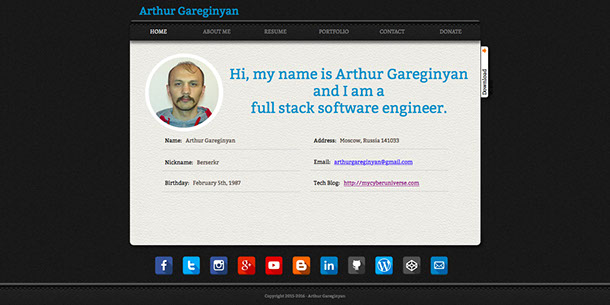
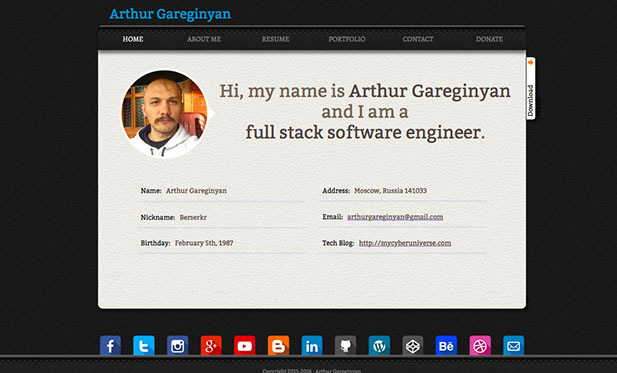
Updated

diff --git a/portfolio.html b/portfolio.html
@@ -3,7 +3,7 @@
  <head>
 
   <script type="text/javascript">
-   if(typeof Muse == "undefined") window.Muse = {}; window.Muse.assets = {"required":["jquery-1.8.3.min.js", "museutils.js", "jquery.musemenu.js", "jquery.watch.js", "jquery.musepolyfill.bgsize.js", "portfolio.css"], "outOfDate":[]};
+   if(typeof Muse == "undefined") window.Muse = {}; window.Muse.assets = {"required":["jquery-1.8.3.min.js", "museutils.js", "jquery.musemenu.js", "jquery.musepolyfill.bgsize.js", "jquery.watch.js", "portfolio.css"], "outOfDate":[]};
 </script>
   
   <meta http-equiv="Content-type" content="text/html;charset=UTF-8"/>
@@ -71,7 +71,7 @@ $(window).load(function(){
     <div class="clearfix colelem" id="u1070"><!-- column -->
      <div class="position_content" id="u1070_position_content">
       <a class="nonblock nontext clearfix colelem" id="u1074-4" href="index.html"><!-- content --><p>Arthur Gareginyan</p></a>
-      <div class="clearfix colelem" id="u1075"><!-- group -->
+      <div class="shadow rounded-corners clearfix colelem" id="u1075"><!-- group -->
        <nav class="MenuBar clearfix grpelem" id="menuu1082"><!-- horizontal box -->
         <div class="MenuItemContainer clearfix grpelem" id="u1111"><!-- vertical box -->
          <a class="nonblock nontext MenuItem MenuItemWithSubMenu clearfix colelem" id="u1114" href="index.html"><!-- horizontal box --><div class="MenuItemLabel NoWrap clearfix grpelem" id="u1115-4"><!-- content --><p>HOME</p></div></a>
@@ -131,7 +131,7 @@ $(window).load(function(){
        </div>
       </div>
      </div>
-     <div class="grpelem" id="u425"><!-- simple frame --></div>
+     <div class="shadow rounded-corners grpelem" id="u425"><!-- simple frame --></div>
      <a class="nonblock nontext clearfix grpelem" id="u426-4" href="assets/arthur_gareginyan.vcf" data-mu-ie-matrix="progid:DXImageTransform.Microsoft.Matrix(M11=0,M12=1,M21=-1,M22=0,SizingMethod='auto expand')" data-mu-ie-matrix-dx="47" data-mu-ie-matrix-dy="-47"><!-- content --><p>Download vCard</p></a>
      <div class="clip_frame grpelem" id="u1361" data-mu-ie-matrix="progid:DXImageTransform.Microsoft.Matrix(M11=0,M12=1,M21=-1,M22=0,SizingMethod='auto expand')" data-mu-ie-matrix-dx="1" data-mu-ie-matrix-dy="-1"><!-- image -->
       <img class="block" id="u1361_img" src="images/arrow_down.png" alt="" width="13" height="12"/>
@@ -205,7 +205,7 @@ $(window).load(function(){
     <div class="clearfix colelem" id="pu1125"><!-- group -->
      <div class="clearfix grpelem" id="u1125"><!-- column -->
       <div class="position_content" id="u1125_position_content">
-       <div class="colelem" id="u1126"><!-- simple frame --></div>
+       <div class="shadow rounded-corners colelem" id="u1126"><!-- simple frame --></div>
        <div class="colelem" id="u1842"><!-- custom html -->
         <ul class="social-icons">
 	<li>

diff --git a/about-me.html b/about-me.html
@@ -12,7 +12,7 @@
   <!-- CSS -->
   <link rel="stylesheet" type="text/css" href="css/site_global.css?4189136300"/>
   <link rel="stylesheet" type="text/css" href="css/master_main.css?3819016110"/>
-  <link rel="stylesheet" type="text/css" href="css/about-me.css?3779073615" id="pagesheet"/>
+  <link rel="stylesheet" type="text/css" href="css/about-me.css?4233700781" id="pagesheet"/>
   <!-- Other scripts -->
   <script type="text/javascript">
    document.documentElement.className += ' js';
@@ -108,7 +108,7 @@ $(window).load(function(){
      <div class="clearfix grpelem" id="u1290-7"><!-- content -->
       <p>&nbsp; My name is Arthur, but known to everyone as just Berserkr.</p>
       <p>&nbsp;</p>
-      <p>&nbsp;&nbsp;&nbsp; I am 28 years old, married. Originally from Dolinskaya in Central Ukraine and now I live in Moscow, Russia.</p>
+      <p>&nbsp;&nbsp;&nbsp; I am 28 years old, married. Originally from Dolinskaya in Central Ukraine, and now I live in Moscow, Russia.</p>
      </div>
      <div class="rounded-corners clearfix grpelem" id="u1896"><!-- group -->
       <div class="rounded-corners grpelem" id="u1292"><!-- simple frame --></div>
@@ -134,7 +134,7 @@ $(window).load(function(){
      <p id="u1351-5">I am a Designer, Tech writer, Software engineer, Blogger, Techie, and Explorer, tinkering with new technologies and existing systems to change the world. I love my wife.</p>
      <p id="u1351-6">&nbsp;</p>
      <p id="u1351-8">My interests are:</p>
-     <ul class="list0 nls-None" id="u1351-27">
+     <ul class="list0 nls-None" id="u1351-25">
       <li id="u1351-10">History</li>
       <li id="u1351-12">Sport cars</li>
       <li id="u1351-14">My wife</li>
@@ -143,8 +143,8 @@ $(window).load(function(){
       <li id="u1351-20">Coding</li>
       <li id="u1351-22">Robotics</li>
       <li id="u1351-24">Reading</li>
-      <li id="u1351-26">&nbsp;... and many more</li>
      </ul>
+     <p id="u1351-27">&nbsp;... and many more.</p>
     </div>
     <div class="clearfix colelem" id="u1961-28"><!-- content -->
      <p id="u1961-2">A little history about my familiarity with computers</p>

diff --git a/website-arthurgareginyan.html b/website-arthurgareginyan.html
@@ -3,7 +3,7 @@
  <head>
 
   <script type="text/javascript">
-   if(typeof Muse == "undefined") window.Muse = {}; window.Muse.assets = {"required":["jquery-1.8.3.min.js", "museutils.js", "jquery.watch.js", "jquery.musepolyfill.bgsize.js", "website-arthurgareginyan.css"], "outOfDate":[]};
+   if(typeof Muse == "undefined") window.Muse = {}; window.Muse.assets = {"required":["jquery-1.8.3.min.js", "museutils.js", "jquery.musepolyfill.bgsize.js", "jquery.watch.js", "website-arthurgareginyan.css"], "outOfDate":[]};
 </script>
   
   <meta http-equiv="Content-type" content="text/html;charset=UTF-8"/>
@@ -12,7 +12,7 @@
   <!-- CSS -->
   <link rel="stylesheet" type="text/css" href="css/site_global.css?4189136300"/>
   <link rel="stylesheet" type="text/css" href="css/master_project-page.css?484836976"/>
-  <link rel="stylesheet" type="text/css" href="css/website-arthurgareginyan.css?4238994646" id="pagesheet"/>
+  <link rel="stylesheet" type="text/css" href="css/website-arthurgareginyan.css?4124083662" id="pagesheet"/>
   <!-- Other scripts -->
   <script type="text/javascript">
    document.documentElement.className += ' js';
@@ -22,6 +22,9 @@ var __adobewebfontsappname__ = "muse";
   <script type="text/javascript">
    document.write('\x3Cscript src="' + (document.location.protocol == 'https:' ? 'https:' : 'http:') + '//webfonts.creativecloud.com/bitter:n4:default.js" type="text/javascript">\x3C/script>');
 </script>
+  <!--[if lt IE 9]>
+  <script src="scripts/html5shiv.js?4241844378" type="text/javascript"></script>
+  <![endif]-->
     <!--custom head HTML-->
   <link rel="stylesheet" href="https://maxcdn.bootstrapcdn.com/font-awesome/4.5.0/css/font-awesome.min.css">
  </head>

diff --git a/css/about-me.css b/css/about-me.css
@@ -1,7 +1,7 @@
 .version.about_me /* version checker */
 {
-	color: #0000E1;
-	background-color: #40164F;
+	color: #0000FC;
+	background-color: #5925AD;
 }
 
 .html
@@ -505,16 +505,16 @@
 	color: #0093C4;
 }
 
-#u1351-3,#u1351-5,#u1351-6,#u1351-8,#u1351-10,#u1351-12,#u1351-14,#u1351-16,#u1351-18,#u1351-20,#u1351-22,#u1351-24,#u1351-26
-{
-	font-size: 16px;
-	line-height: 19px;
-}
-
-#u1351-27 > #u1351-10:before,#u1351-27 > #u1351-12:before,#u1351-27 > #u1351-14:before,#u1351-27 > #u1351-16:before,#u1351-27 > #u1351-18:before,#u1351-27 > #u1351-20:before,#u1351-27 > #u1351-22:before,#u1351-27 > #u1351-24:before,#u1351-27 > #u1351-26:before
+#u1351-25 > #u1351-10:before,#u1351-25 > #u1351-12:before,#u1351-25 > #u1351-14:before,#u1351-25 > #u1351-16:before,#u1351-25 > #u1351-18:before,#u1351-25 > #u1351-20:before,#u1351-25 > #u1351-22:before,#u1351-25 > #u1351-24:before
 {
 	font-family: bitter, Georgia;
 	font-weight: 400;
+}
+
+#u1351-3,#u1351-5,#u1351-6,#u1351-8,#u1351-10,#u1351-12,#u1351-14,#u1351-16,#u1351-18,#u1351-20,#u1351-22,#u1351-24,#u1351-27
+{
+	font-size: 16px;
+	line-height: 19px;
 }
 
 #u1961-28

diff --git a/css/website-arthurgareginyan.css b/css/website-arthurgareginyan.css
@@ -1,7 +1,7 @@
 .version.website_arthurgareginyan /* version checker */
 {
-	color: #0000FC;
-	background-color: #A9ECD6;
+	color: #0000F5;
+	background-color: #D085CE;
 }
 
 .html
@@ -90,7 +90,7 @@
 {
 	z-index: 20;
 	width: 600px;
-	height: 305px;
+	height: 373px;
 	position: relative;
 	background: transparent url("../images/arthurgareginyan.jpg") no-repeat center top;
 	background-size: cover;
